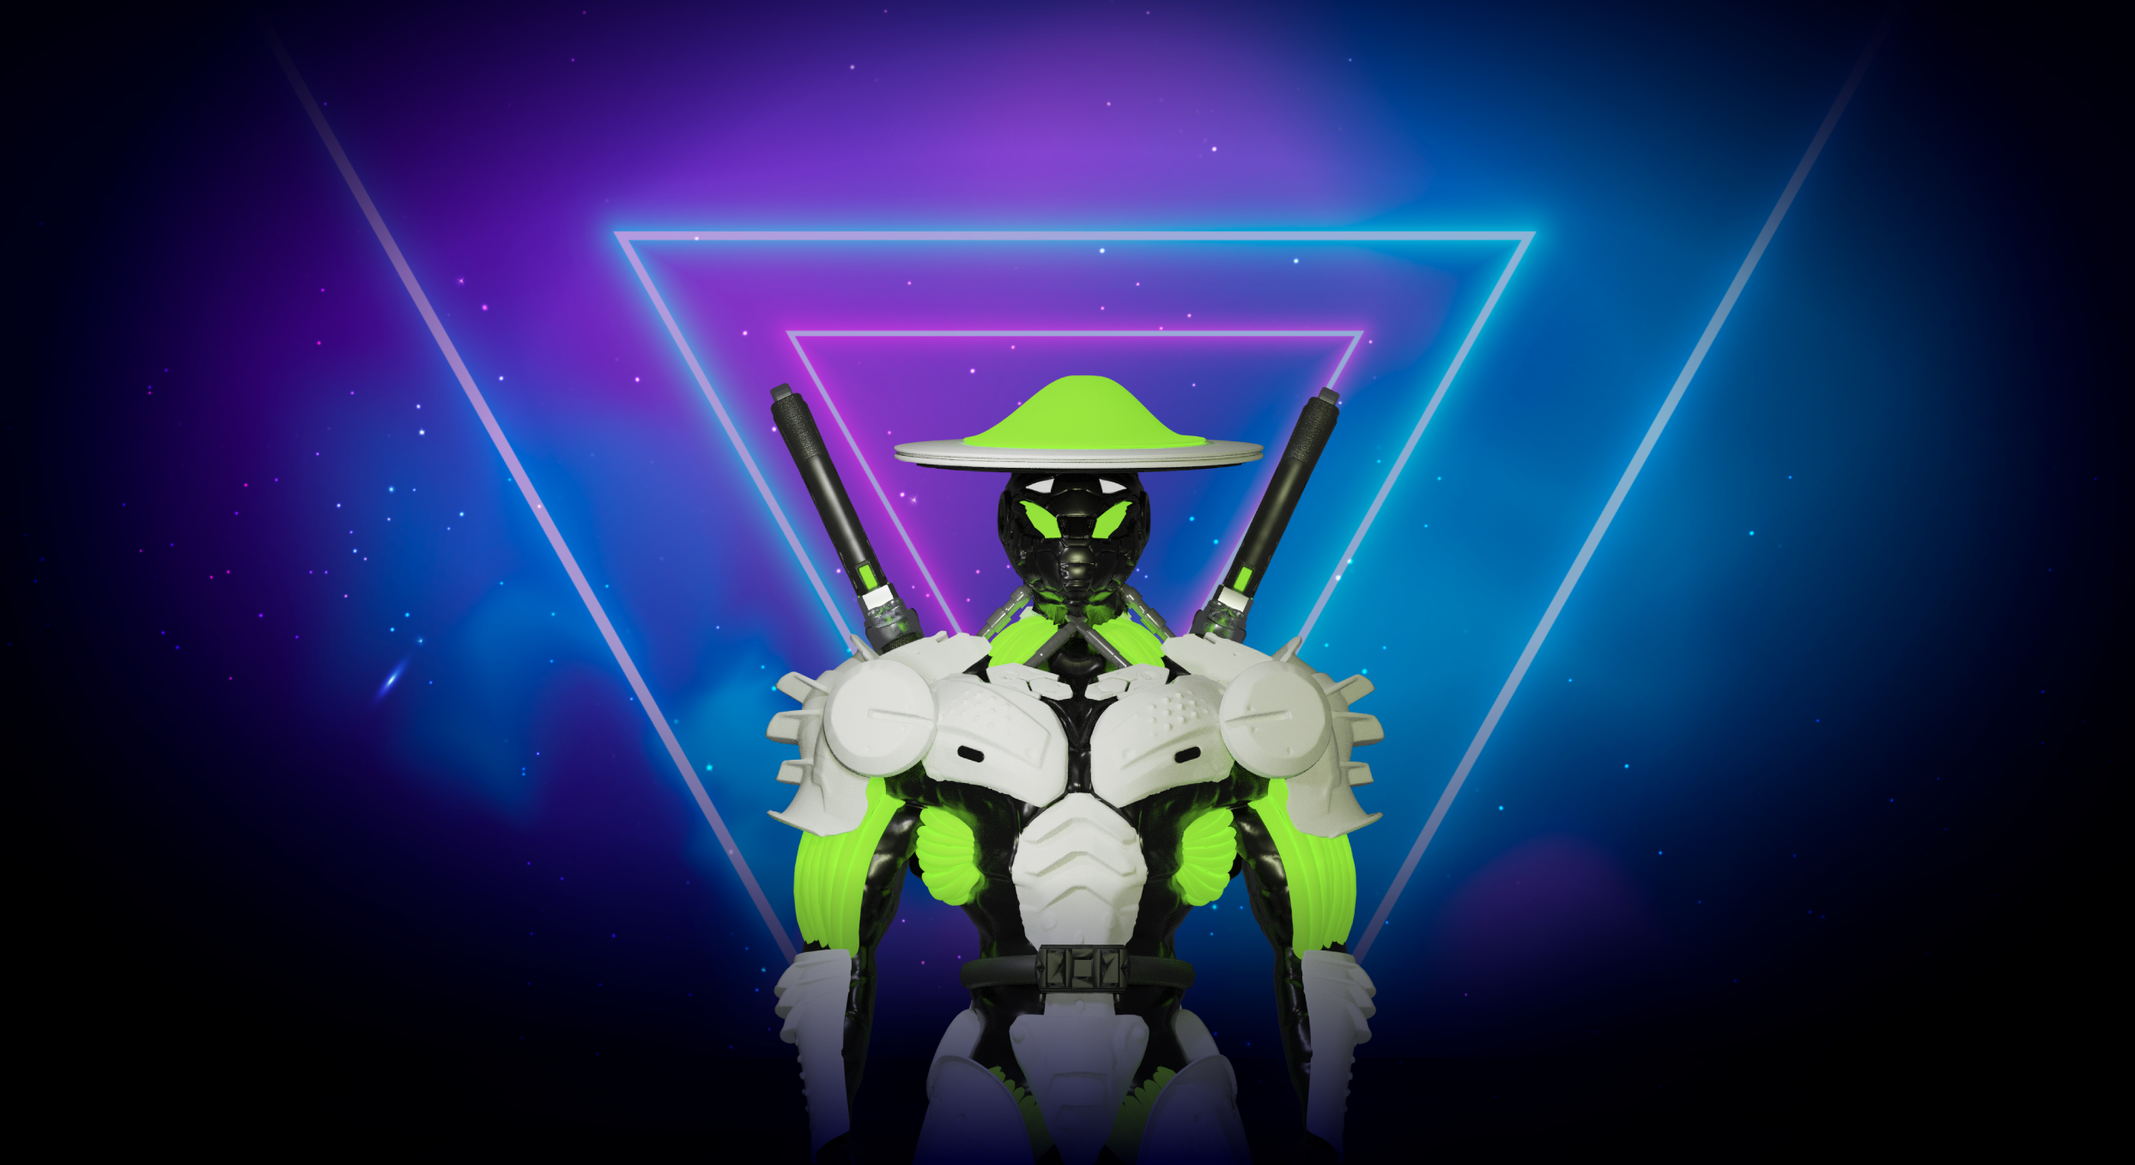
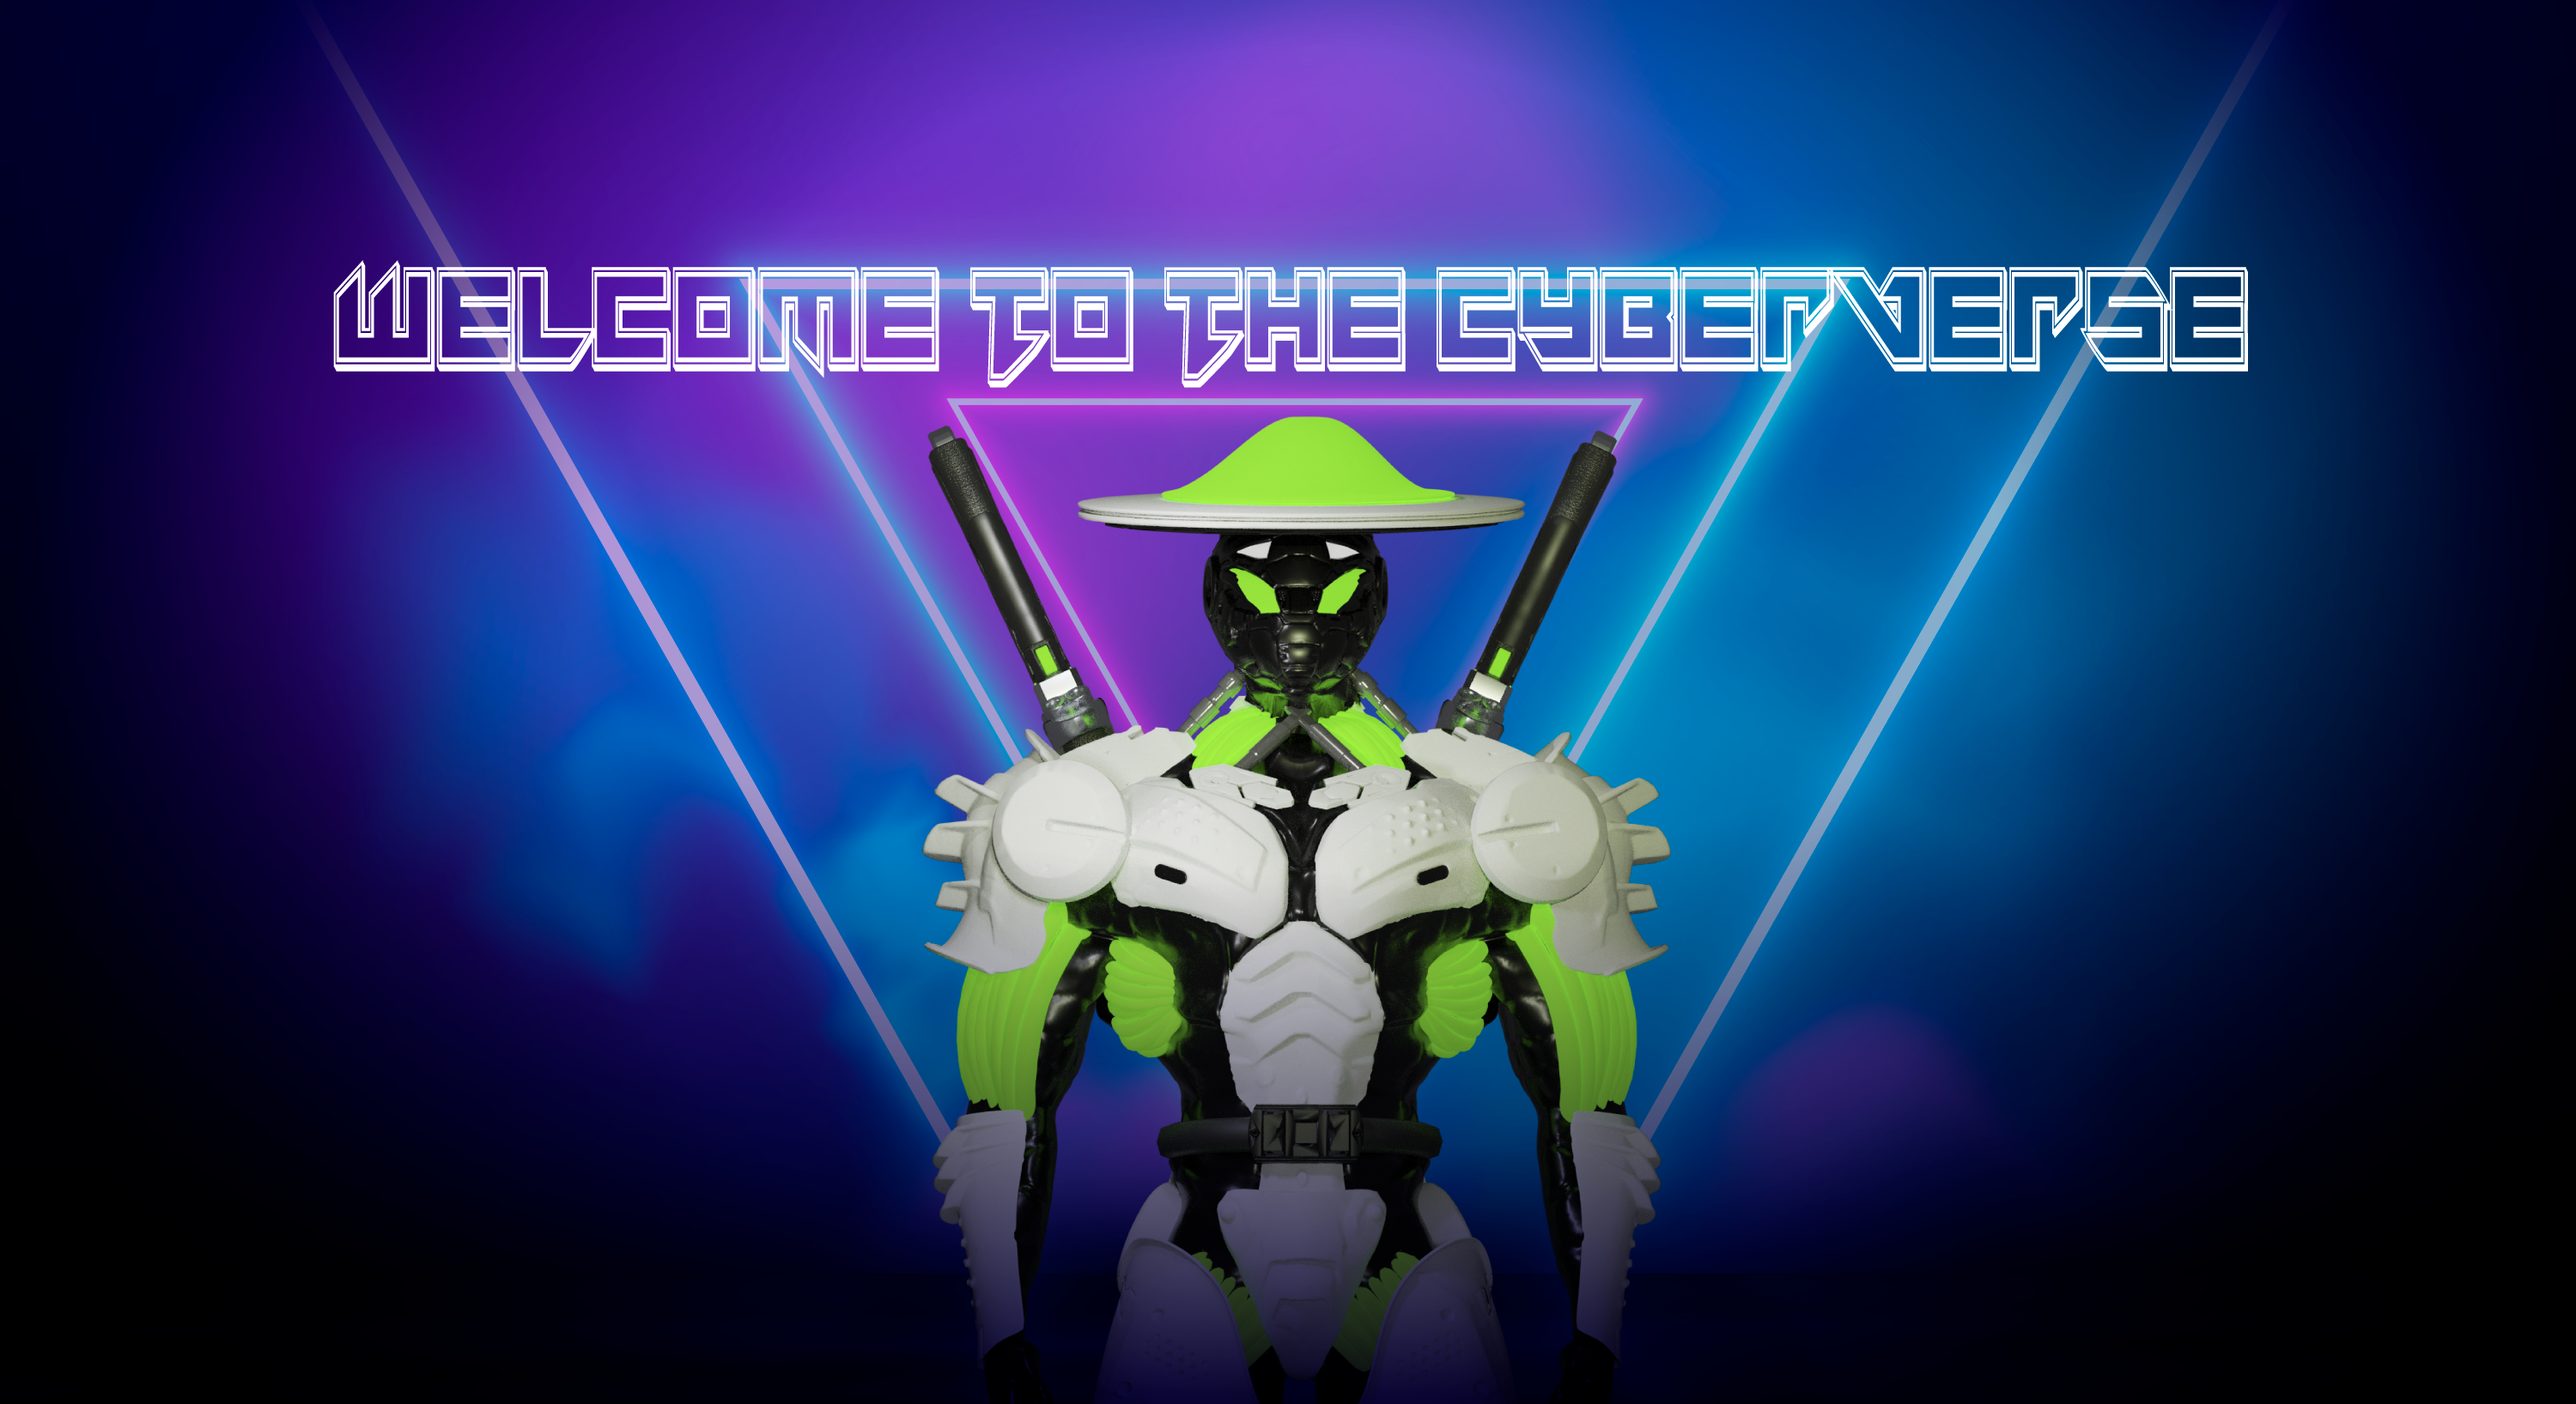
UI Update

diff --git a/pages/index.js b/pages/index.js
@@ -14,7 +14,7 @@ export default function Home() {
      
       <nav className="navbar navbar-expand-lg bg-transparent  position-absolute left-right-0 " >
         <div className={` ${styles.cWidht} container pb-5`}>
-        <img class="header-logo" src="/logow.png" alt="Vercel Logo" />
+        <img class="header-logo" src="/logosign.png" alt="Vercel Logo" />
           <button className="navbar-toggler focusOutlineunset " type="button" data-bs-toggle="collapse" data-bs-target="#navbarSupportedContent" aria-controls="navbarSupportedContent" aria-expanded="false" aria-label="Toggle navigation">
             <span className="navbar-toggler-icon">
             <i className="fa fa-bars fs-25 text-white focusOutlineunset"></i>
@@ -60,10 +60,11 @@ export default function Home() {
           </div>
 
 
-          <div className='text-center'>
-            {/* <h4 className='text-uppercase lh-sm text-white fw-normal fs-15 text-shadow-md'>
-               </h4> */}
-            <div className=' mt-5 dis-none'>
+          <div className='text-center mt-3'>
+            <h4 className='text-uppercase lh-sm text-white fw-normal fs-15 text-shadow-md px-md-5'>
+            10,000 programmatically generated Soldiers built a utopia in the Metaverse! Each Soldier is unique and 1 of over a billion possible combinations
+               </h4>
+            <div className='my-2 dis-none'>
             <a href='#' className={`${styles.topButton} ${styles.bgButton} btn btn-outline-primary mx-3 fw-normal text-uppercase text-white`}>
               <i className='fab fa-discord me-2'></i>JOIN DISCORD
               </a>
@@ -80,23 +81,44 @@ export default function Home() {
 
      <div className={styles.bgBody1}>
       <div className={`${styles.cWidht} container py-5`}>
-       <div className='text-center py-5'>
-       <h1 className='fw-normal fs-1 text-white headtxt' id='about-us'>ABOUT US</h1>
+       <div className='text-centr py-5 row'>
+       <div className='col-md-12'>
+       <h1 className='text-centr fw-normal fs-1 text-white headtxt' id='about-us'>ABOUT US</h1>
         <p className='text-uppercase lh-lg text-white fs15 mx-md-20 fw-normal lh-lg'>
-        Cyber Soldier is a collection of one-of-a-kind non-fungible tokens (NFTs) to attract casual and interested new collectors. NFTs of Cyber Soldiers are both aesthetic and instructive. We provide complete NFT collection launch services not limited to graphic design, web development, digital marketing and blockchain development. We help brands and artists all around the world design and launch their own successful NFT collection. At Cyber Soldier, we also provide our members with exclusive, one-on-one access to some of the most innovative wheel-workers in technology today, from experts in NFTs and cryptocurrencies to Web3 and marketing, among a host of others, through personal coaching sessions and Q&As.
+        The only constant in the NFT space is change. Things change fast and we must adapt quickly to be able to survive and thrive in this space. This roadmap is no different. Our goal is to give you an idea of our current plans and we've considered feasibility of every element we've currently included in this plan, but we will change and adapt as the space changes. What will not change is our constant efforts to be transparent and open with our community members; that is a constant you can count on
            </p>
-        <a href='#' className={`${styles.topButton} ${styles.bgButton} btn btn-outline-primary mx-3 fw-normal text-uppercase text-white`}>READ MORE
+           <p className='text-uppercase lh-lg text-white fs15 mx-md-20 fw-normal lh-lg'>
+
+           Each Soldier is a key to a community of crypto enthusiasts sharing their love and knowledge of all things NFT and DeFi.
+        </p>
+        <p className='text-uppercase lh-lg text-white fs15 mx-md-20 fw-normal lh-lg'>
+
+        Cyber Soldiers are ERC-721 tokens hosted on IPFS and each one is randomly generated in an auditable, fair process.
+        </p>
+        <a href='#' className={`${styles.topButton} ${styles.bgButton} btn btn-outline-primary mx-3 fw-normal text-uppercase text-white d-none`}>READ MORE
         <i className="fa fa-chevron-down mx-2 text-white"></i>
         </a>
        </div>
-
-       <div className='py-5 d-none'>
+       </div>
+</div>
+      <div className={`container py-5 d-none`}>
+      <div className='text-centr py-5 row'>
+       <div className='col-md-12'>
+       <div className='py-5 '>
          <div className=''>
        <div className="ratio ratio-16x9 mb-5">
         <iframe src="https://www.youtube.com/embed/zpOULjyy-" title="YouTube video"></iframe>
       </div>
       </div>
        </div>
+       </div>
+       </div>
+       </div>
+
+
+
+
+       <div className={`container py-2`}>
 
           <div className='pb-md-5 pb-3'> 
             <h1 className={`${styles.animatedContent} text-center fw-normal fs-1 text-white mb-5 text-uppercase headtxt`} id='roadmap' >ROAD MAP</h1>
@@ -400,7 +422,7 @@ This one is going to be unique! And the winners will be paid handsomely. Partici
 
           <footer className='-5'>
             <div className='col-lg-12 col-12 text-center'>
-              <Image className={styles.obfContain} src="/logow.png" alt="Vercel Logo" width={150} height={120} />
+              <Image className={styles.obfContain} src="/white-logo-png.png" alt="Vercel Logo" width={250} height={150} />
             </div>
             <nav className="navbar navbar-expand-lg bg-transparent">
               <div className={` ${styles.cWidht} container `}>

diff --git a/styles/globals.css b/styles/globals.css
@@ -156,8 +156,8 @@ color: transparent;
   list-style: none;
 }
 .header-logo{
-  height: 100px;
-  width: 100px;
+  /* height: 200px; */
+  width: 250px;
   object-fit: contain;
 }
 /* .bg-video {
